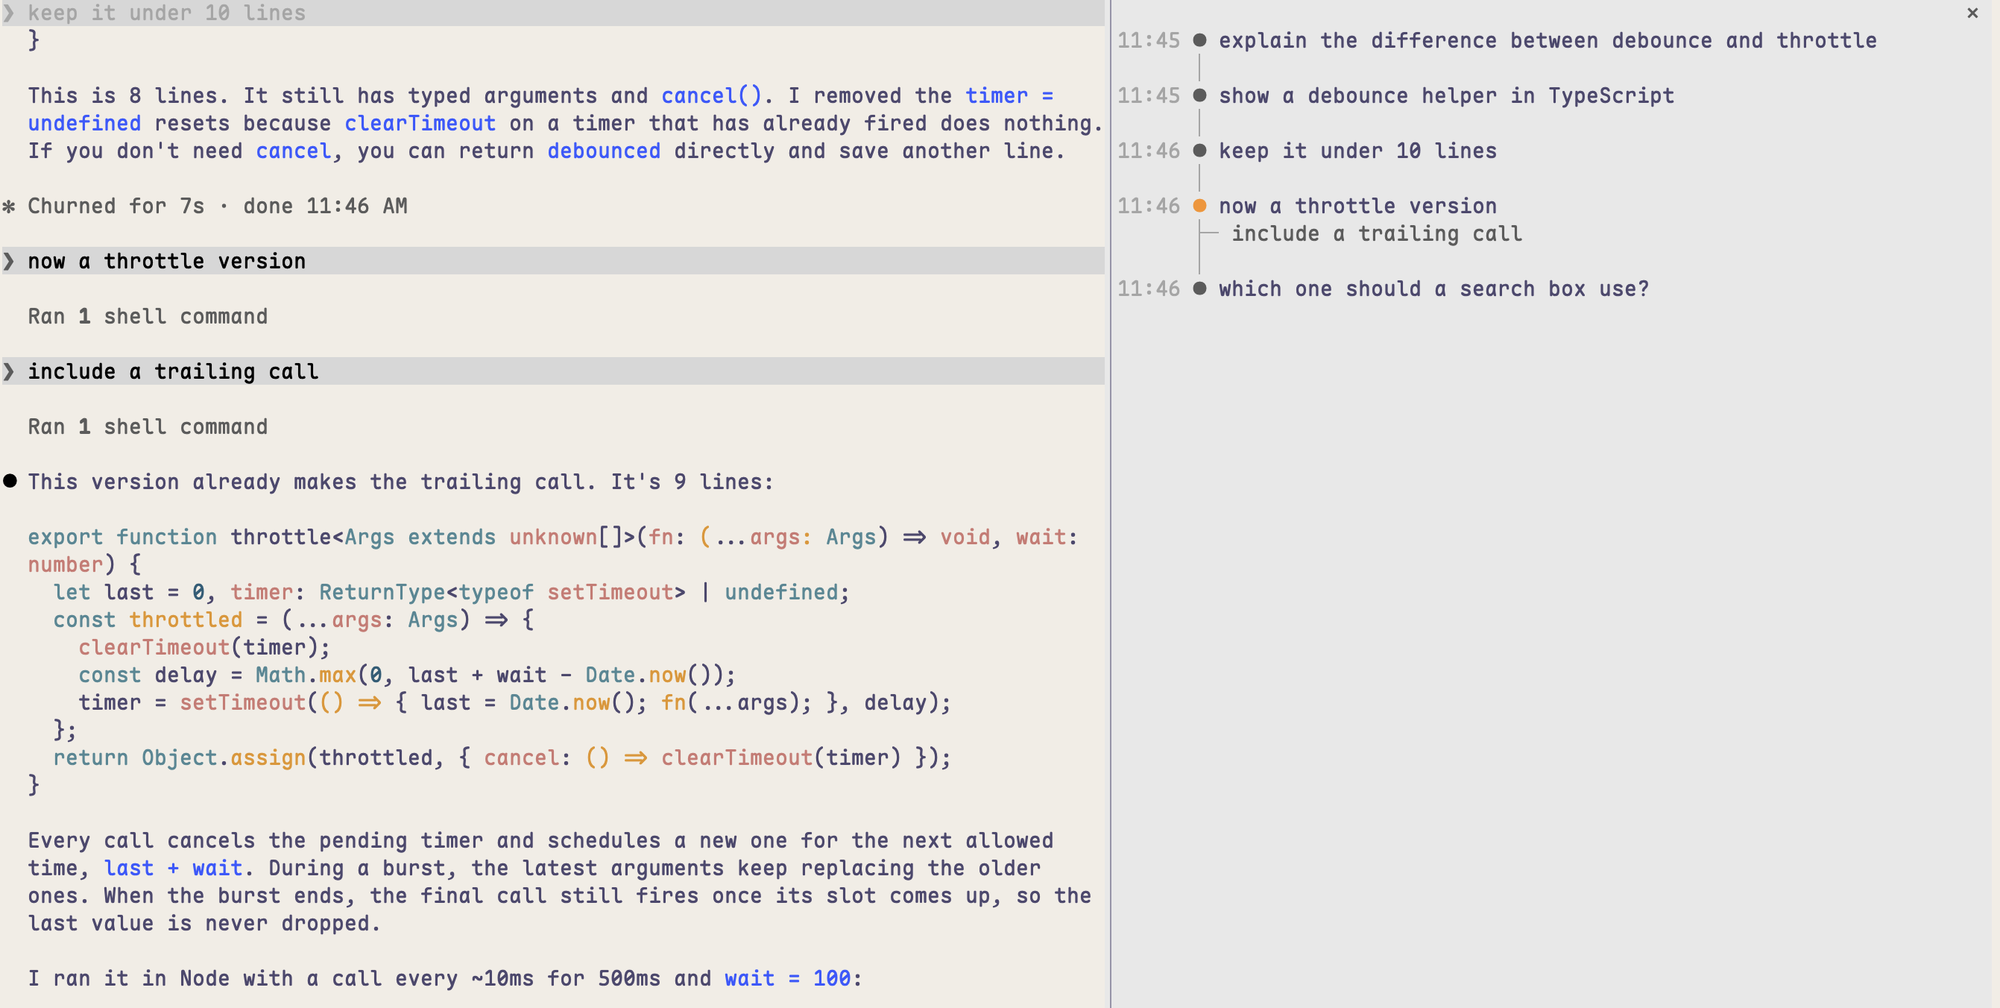
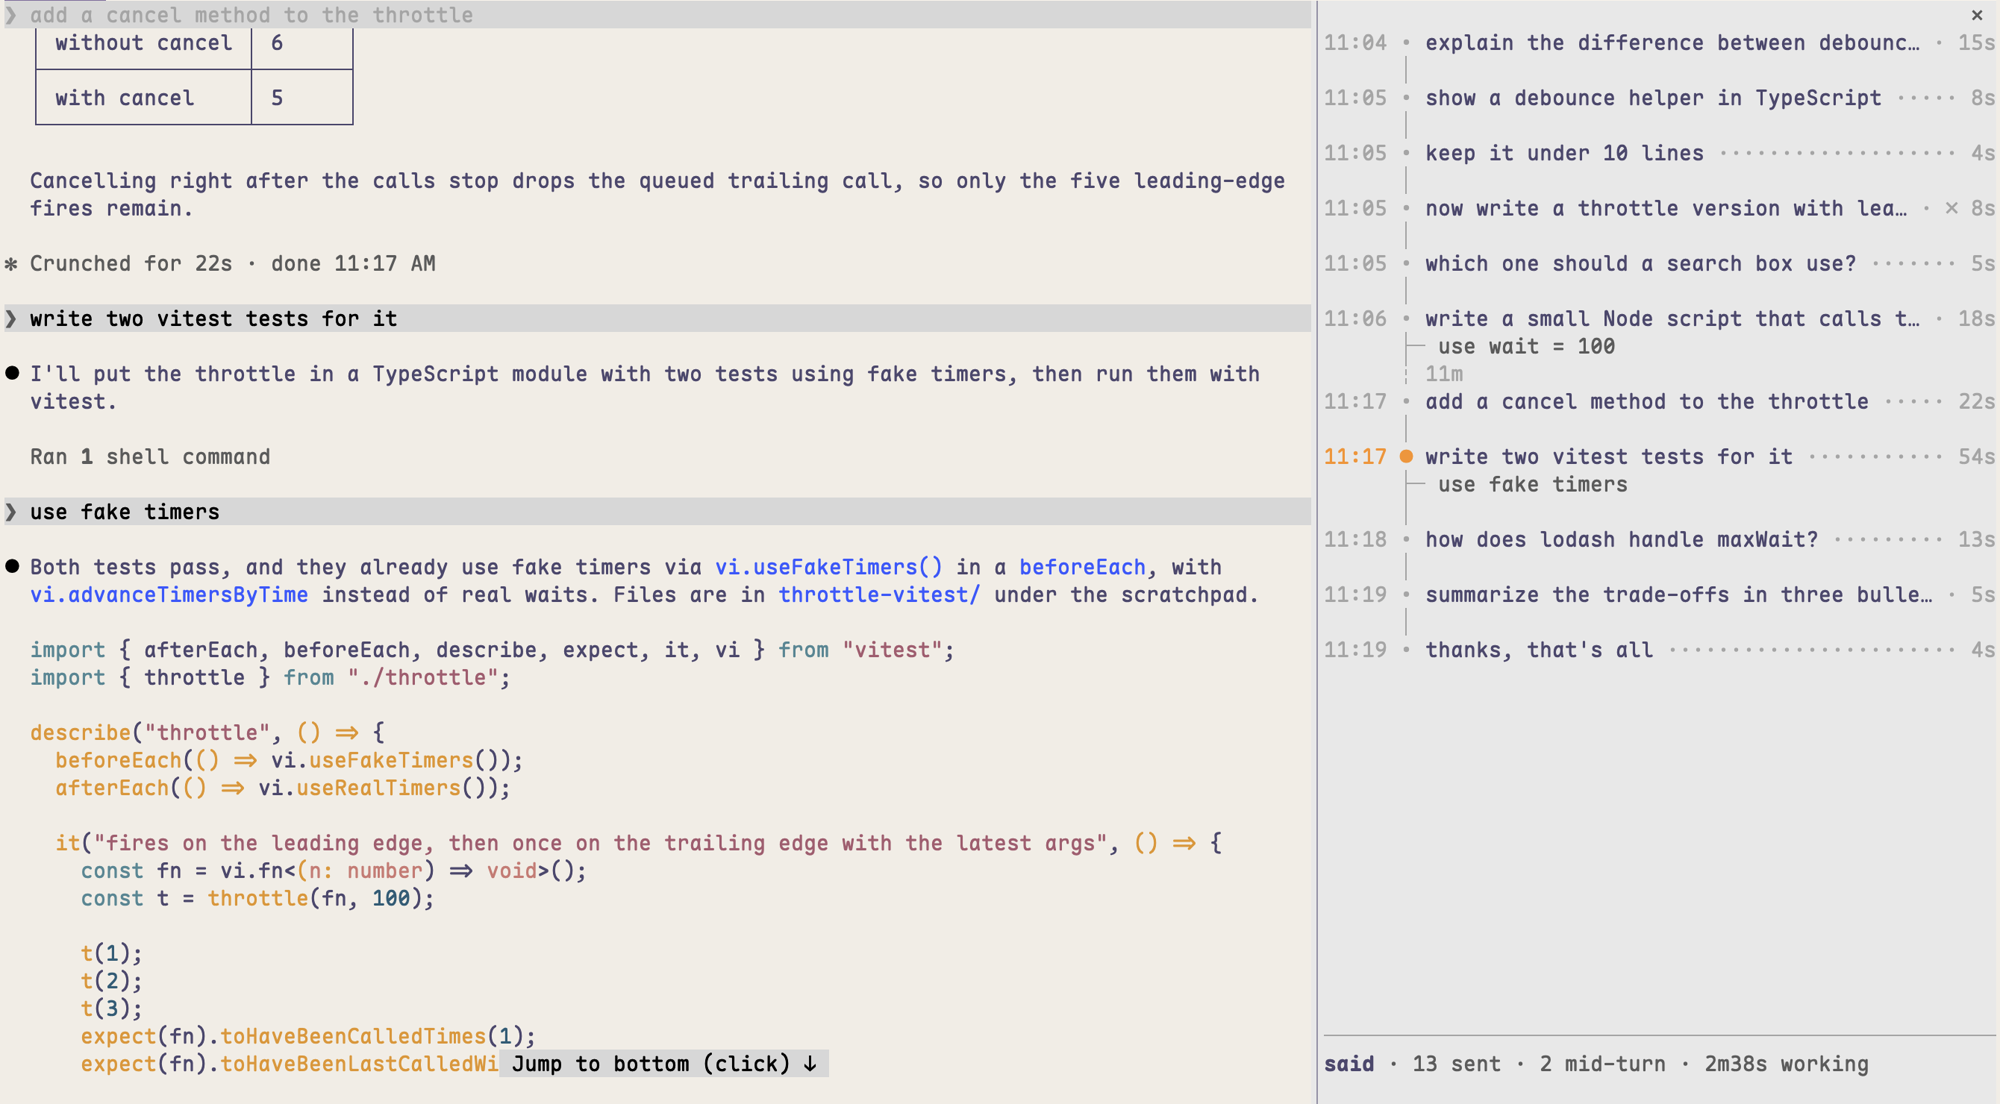
Turn durations, a pulsing dot while a turn runs, long pauses on the rail, a footer of counts and working time pinned to the pane's bottom; quieter greys and smaller dots; the pane keeps to the end; new screenshot; 0.1.4

diff --git a/hooks/register.tsx b/hooks/register.tsx
@@ -1,11 +1,12 @@
 import { atom, read, update } from 'claude-code'
-import type { EngineInterface, Register } from 'claude-code'
+import type { EngineInterface, Register, Timer } from 'claude-code'
 
 import type { Said } from '../types'
 
 const PANE = 'said'
 const prompts = atom({ plugin: 'said', key: 'prompts' } as const, [] as Said[])
 const focus = atom({ plugin: 'said', key: 'focus' } as const, null as string | null)
+const pulse = atom({ plugin: 'said', key: 'pulse' } as const, false)
 
 // Row ids of the person's messages the transcript shows now, as their rows report it.
 const shown = new Set<string>()
@@ -20,6 +21,13 @@ const follow = async ($: EngineInterface) => {
   top = first?.uuid
   if (first !== undefined) await update($, focus, () => first.uuid)
 }
+
+// The message whose turn is running, its dot pulsing on the beat; a reload forgets it.
+let running: string | undefined
+let beat: Timer | undefined
+
+// The pane's window and its tree's height when it was last drawn.
+let seen: { offset: number; bodyRows: number; total: number } | undefined
 
 // Whether a turn was interrupted since the latest message was checked for.
 let isAborted = false
@@ -57,6 +65,32 @@ export const clockTime = (ms: number) => {
   return `${String(d.getHours()).padStart(2, '0')}:${String(d.getMinutes()).padStart(2, '0')}`
 }
 
+// A length of time to the second, as `38s`, `4m12s` or `1h05m`.
+export const span = (ms: number) => {
+  const s = Math.round(ms / 1000)
+  const m = Math.floor(s / 60)
+  if (s < 60) return `${s}s`
+  if (m < 60) return `${m}m${String(s % 60).padStart(2, '0')}s`
+  return `${Math.floor(m / 60)}h${String(m % 60).padStart(2, '0')}m`
+}
+
+// A pause between turns to the minute, as `25m` or `1h05m`.
+export const pause = (ms: number) => {
+  const m = Math.round(ms / 60_000)
+  return m < 60 ? `${m}m` : `${Math.floor(m / 60)}h${String(m % 60).padStart(2, '0')}m`
+}
+
+// What ends a turn's row once Claude is done: how long it took, after ✗ if you interrupted
+// it or ! if it stopped on an error or a refusal. Nothing for a mid-turn message.
+export const tail = (one: Said) => {
+  if (one.isMidTurn || one.tookMs === undefined) return undefined
+  const mark = one.ended === 'aborted' ? '✗ ' : one.ended === 'error' || one.ended === 'refusal' ? '! ' : ''
+  return mark + span(one.tookMs)
+}
+
+// Turns this far apart get the pause shown between them.
+const LONG_PAUSE = 10 * 60_000
+
 export const register: Register = on => {
   on('session.start', async ($, e, next) => {
     await $.command.register({
@@ -82,10 +116,23 @@ export const register: Register = on => {
     return { text: 'Opened the Said pane.' }
   })
 
+  // A turn's length and ending go on the latest turn listed, once: a turn nobody sent
+  // (a background agent's report) finds it already timed.
   // A turn interrupted may have taken its message back; it is gone from the
   // conversation by now, or by the next message, which checks again.
   on('turn.complete', async ($, e, next) => {
     const done = await next(e)
+    if (e.agentId === undefined) {
+      running = undefined
+      beat?.cancel()
+      beat = undefined
+      await update($, pulse, () => false)
+      await update($, prompts, list => {
+        const i = list.findLastIndex(one => !one.isMidTurn)
+        if (i === -1 || list[i]?.tookMs !== undefined) return list
+        return list.map((one, j) => (j === i ? { ...one, tookMs: e.durationMs, ended: e.reason } : one))
+      })
+    }
     if (e.isAborted && e.agentId === undefined) {
       isAborted = true
       await dropTaken($)
@@ -110,6 +157,13 @@ export const register: Register = on => {
       const isMidTurn = e.door === 'delivery'
       await update($, prompts, list => [...list, { uuid: stored.uuid, text, at, isMidTurn }])
       await update($, focus, () => stored.uuid)
+      // The pane follows it down once it is drawn with it; with the pane closed, the
+      // scroll is refused and nothing moves.
+      $.clock.after(100, () => void $.ui.scroll({ in: PANE, to: 'end' }))
+      if (!isMidTurn) {
+        running = stored.uuid
+        beat ??= $.clock.every(800, () => void update($, pulse, isLit => !isLit))
+      }
     }
     return stored
   })
@@ -139,8 +193,21 @@ export const register: Register = on => {
     let accent = list.findIndex(one => one.uuid === current)
     if (accent === -1) accent = list.findLastIndex(one => !one.isMidTurn)
     while (accent > 0 && list[accent]?.isMidTurn) accent--
+    const midTurns = list.filter(one => one.isMidTurn).length
+    const working = list.reduce((sum, one) => sum + (one.tookMs ?? 0), 0)
+    // Rows the tree takes: one per message, the rail between turns, the rule and the footer.
+    const total = list.length + list.filter((one, i) => i > 0 && !one.isMidTurn).length + 2
+    // A pane at the end stays there when it gets shorter (the prompt grows, a notice shows)
+    // or the list longer, so the footer stays in view; scrolling up moves neither.
+    const { offset, bodyRows } = e.props.scroll
+    const wasAtEnd = seen !== undefined && seen.offset + seen.bodyRows >= seen.total
+    const isResized = seen !== undefined && (seen.bodyRows !== bodyRows || seen.total !== total)
+    if (wasAtEnd && isResized && offset + bodyRows < total) $.clock.after(0, () => void $.ui.scroll({ in: PANE, to: 'end' }))
+    seen = { offset, bodyRows, total }
+    const isLit = running === undefined || (await read($, pulse))
     return (
-      <Box flexDirection="column">
+      // Docked, it fills the pane so the footer sits at the bottom under a short list.
+      <Box flexDirection="column" minHeight={e.props.placement === 'dock' ? bodyRows : undefined}>
         {list.flatMap((one, i) => {
           const jump = async () => {
             await update($, focus, () => one.uuid)
@@ -152,32 +219,54 @@ export const register: Register = on => {
             <Text color="subtle">{'      ├─ '}</Text>
           ) : (
             <Text>
-              <Text color="subtle">{one.at === undefined ? '     ' : clockTime(one.at)}</Text>
-              <Text color={i === accent ? 'claude' : 'inactive'}>{' ● '}</Text>
+              <Text color={i === accent ? 'claude' : 'subtle'}>
+                {one.at === undefined ? '     ' : clockTime(one.at)}
+                {` ${(i === accent ? '●○' : '•◦')[one.uuid === running && !isLit ? 1 : 0]} `}
+              </Text>
             </Text>
           )
           const width = one.isMidTurn ? 9 : 8
+          // The end of the row sits at the right edge, dot leaders running up to it.
+          const end = tail(one)
+          const label = shorten(one.isMidTurn ? unframe(one.text) : one.text, columns - width - (end === undefined ? 0 : end.length + 3))
+          const after =
+            end === undefined
+              ? []
+              : [
+                  <Text key={`t-${one.uuid}`}>
+                    <Text color="subtle">{` ${'·'.repeat(Math.max(1, columns - width - label.length - end.length - 2))} `}</Text>
+                    <Text color="subtle">{end}</Text>
+                  </Text>,
+                ]
           const row = (
             <Box key={`r-${one.uuid}`} flexDirection="row">
               {marker}
-              <Button
-                key={`m-${one.uuid}`}
-                plain
-                label={shorten(one.isMidTurn ? unframe(one.text) : one.text, columns - width)}
-                dimColor={one.isMidTurn}
-                hover={{ color: 'claude' }}
-                onPress={jump}
-              />
+              <Button key={`m-${one.uuid}`} plain label={label} dimColor={one.isMidTurn} hover={{ color: 'claude' }} onPress={jump} />
+              {after}
             </Box>
           )
           if (i === 0 || one.isMidTurn) return [row]
+          // A long pause since the turn before shows on the rail between them.
+          const before = list.slice(0, i).findLast(other => !other.isMidTurn)
+          const idle = one.at === undefined || before?.at === undefined ? 0 : one.at - before.at - (before.tookMs ?? 0)
           return [
             <Text key={`g-${one.uuid}`} color="subtle">
-              {'      │'}
+              {idle >= LONG_PAUSE ? `      ┆ ${pause(idle)}` : '      │'}
             </Text>,
             row,
           ]
         })}
+        <Box key="spacer" flexGrow={1} />
+        {/* Under the list, where the pane sits, so it stays in view. */}
+        <Text key="rule" color="subtle">
+          {'─'.repeat(columns)}
+        </Text>
+        <Text key="footer">
+          <Text bold>said</Text>
+          <Text color="inactive">
+            {` · ${list.length} sent${midTurns > 0 ? ` · ${midTurns} mid-turn` : ''}${working > 0 ? ` · ${span(working)} working` : ''}`}
+          </Text>
+        </Text>
       </Box>
     )
   })

diff --git a/tests/said.test.ts b/tests/said.test.ts
@@ -1,6 +1,6 @@
 import { expect, test } from 'claude-code/testing'
 
-import { clockTime, shorten, unframe } from '../hooks/register'
+import { clockTime, pause, shorten, span, tail, unframe } from '../hooks/register'
 
 const PANE = {
   plugin: 'said',
@@ -36,4 +36,17 @@ test('a mid-turn message is shown without the reminder around it', async () => {
 test('a time reads as 24-hour local hours and minutes', async () => {
   expect(clockTime(new Date(2026, 9, 6, 9, 5).getTime())).toBe('09:05')
   expect(clockTime(new Date(2026, 9, 6, 22, 41).getTime())).toBe('22:41')
+})
+
+test('a turn ends its row with how long it took and how it stopped', async () => {
+  expect(span(38_400)).toBe('38s')
+  expect(span(252_000)).toBe('4m12s')
+  expect(span(3_900_000)).toBe('1h05m')
+  expect(pause(25 * 60_000)).toBe('25m')
+  expect(pause(65 * 60_000)).toBe('1h05m')
+  expect(tail({ uuid: 'a', text: 'x', tookMs: 38_000, ended: 'answer' })).toBe('38s')
+  expect(tail({ uuid: 'a', text: 'x', tookMs: 12_000, ended: 'aborted' })).toBe('✗ 12s')
+  expect(tail({ uuid: 'a', text: 'x', tookMs: 12_000, ended: 'error' })).toBe('! 12s')
+  expect(tail({ uuid: 'a', text: 'x' })).toBeUndefined()
+  expect(tail({ uuid: 'a', text: 'x', isMidTurn: true })).toBeUndefined()
 })

diff --git a/types/index.d.ts b/types/index.d.ts
@@ -1,9 +1,18 @@
-// `at` and `isMidTurn` are absent on rows kept before they were recorded.
-export type Said = { uuid: string; text: string; at?: number; isMidTurn?: boolean }
+// `at` and `isMidTurn` are absent on rows kept before they were recorded. `tookMs` and `ended`
+// are how long Claude took over a turn and why it stopped, absent until it does.
+export type Said = {
+  uuid: string
+  text: string
+  at?: number
+  isMidTurn?: boolean
+  tookMs?: number
+  ended?: 'answer' | 'aborted' | 'refusal' | 'error'
+}
 
 declare module 'claude-code' {
   interface PluginState {
     // `focus` is the row id of the message the transcript is at, or null before one is known.
-    said: { prompts: Said[]; focus: string | null }
+    // `pulse` flips while a turn runs, its message's dot drawn hollow when it is false.
+    said: { prompts: Said[]; focus: string | null; pulse: boolean }
   }
 }

diff --git a/README.md b/README.md
@@ -2,10 +2,12 @@
 
 A Claude Code mod: `/said` opens a side panel listing every message you've sent in the session, as a timeline. Press one and the transcript scrolls back to it.
 
-![The /said panel beside a Claude Code transcript: five messages on a timeline, the accented dot on the turn the transcript is scrolled to, a mid-turn message branching off it](docs/screenshot.png)
+![The /said panel beside a Claude Code transcript: thirteen messages on a timeline with how long each turn took, the accented dot on the turn the transcript is scrolled to, two mid-turn messages branching off their turns, an interrupted turn, an 11-minute pause, and a footer of counts and working time](docs/screenshot.png)
 
 - Each turn is a dot with the time you sent it; a message you sent while Claude was still working branches off its turn (`├─`).
+- On the right, how long Claude took over the turn: `✗` marks one you interrupted, and `!` one that ended on an error or a refusal; it appears once the turn ends, and until then the turn's dot pulses. A pause of 10 minutes or more between turns shows on the rail (`┆ 25m`).
 - The accented dot follows the transcript: it marks the message you jumped to or just sent, or the topmost of your messages on screen as you scroll.
+- Under the list: how many messages you've sent, and how long Claude has worked on them.
 - Run `/said` again to close the panel.
 
 ## Install
@@ -28,8 +30,8 @@ Answer `y` to add the marketplace, then press Enter to install at user scope. It
 
 - `session.start`: registers the `/said` command.
 - `command.run`, only for `said`: opens or closes the panel. Other commands aren't seen.
-- `session.append`: reads each message you send after Claude Code has stored it, to list it. It doesn't change or block anything.
-- `turn.complete`: after you interrupt a turn, reads the conversation's messages to drop one that Esc took back into the prompt. It doesn't change the turn.
+- `session.append`: reads each message you send after Claude Code has stored it, to list it and scroll the panel down to it. It doesn't change or block anything.
+- `turn.complete`: notes how long the turn took and how it ended; after you interrupt a turn, reads the conversation's messages to drop one that Esc took back into the prompt. It doesn't change the turn.
 - `ui.render` of your messages in the transcript: notes which are on screen, to move the accent. They're drawn unchanged.
 - `ui.render` of its own panel: draws the list.
 
